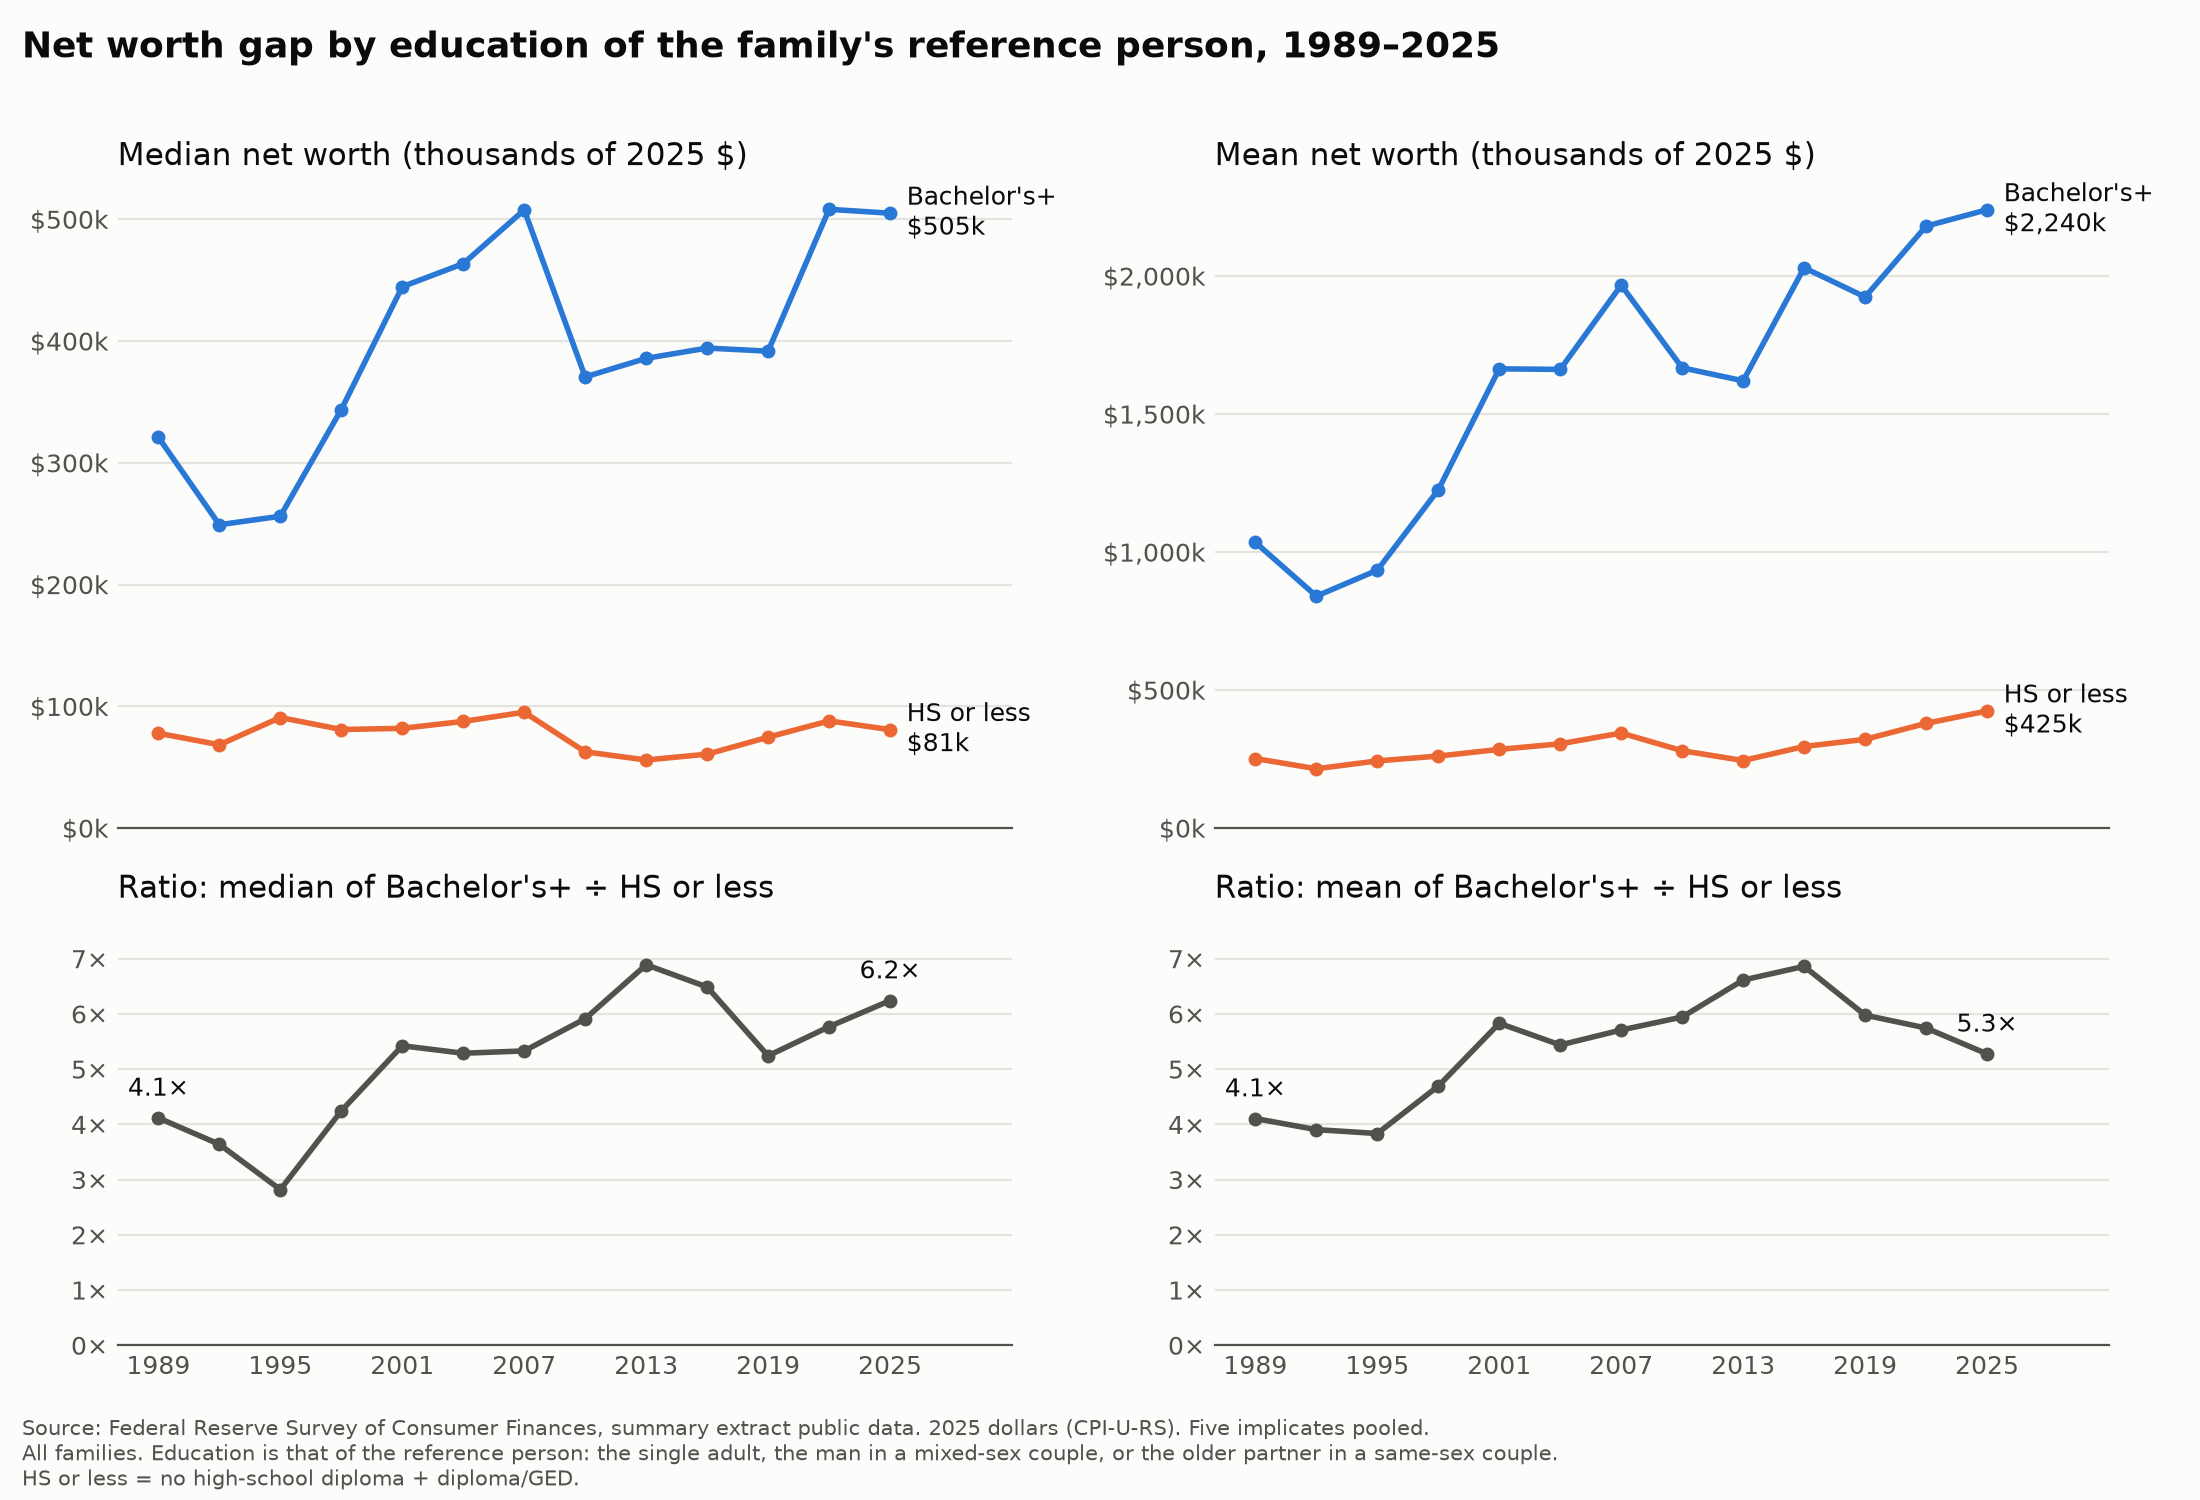
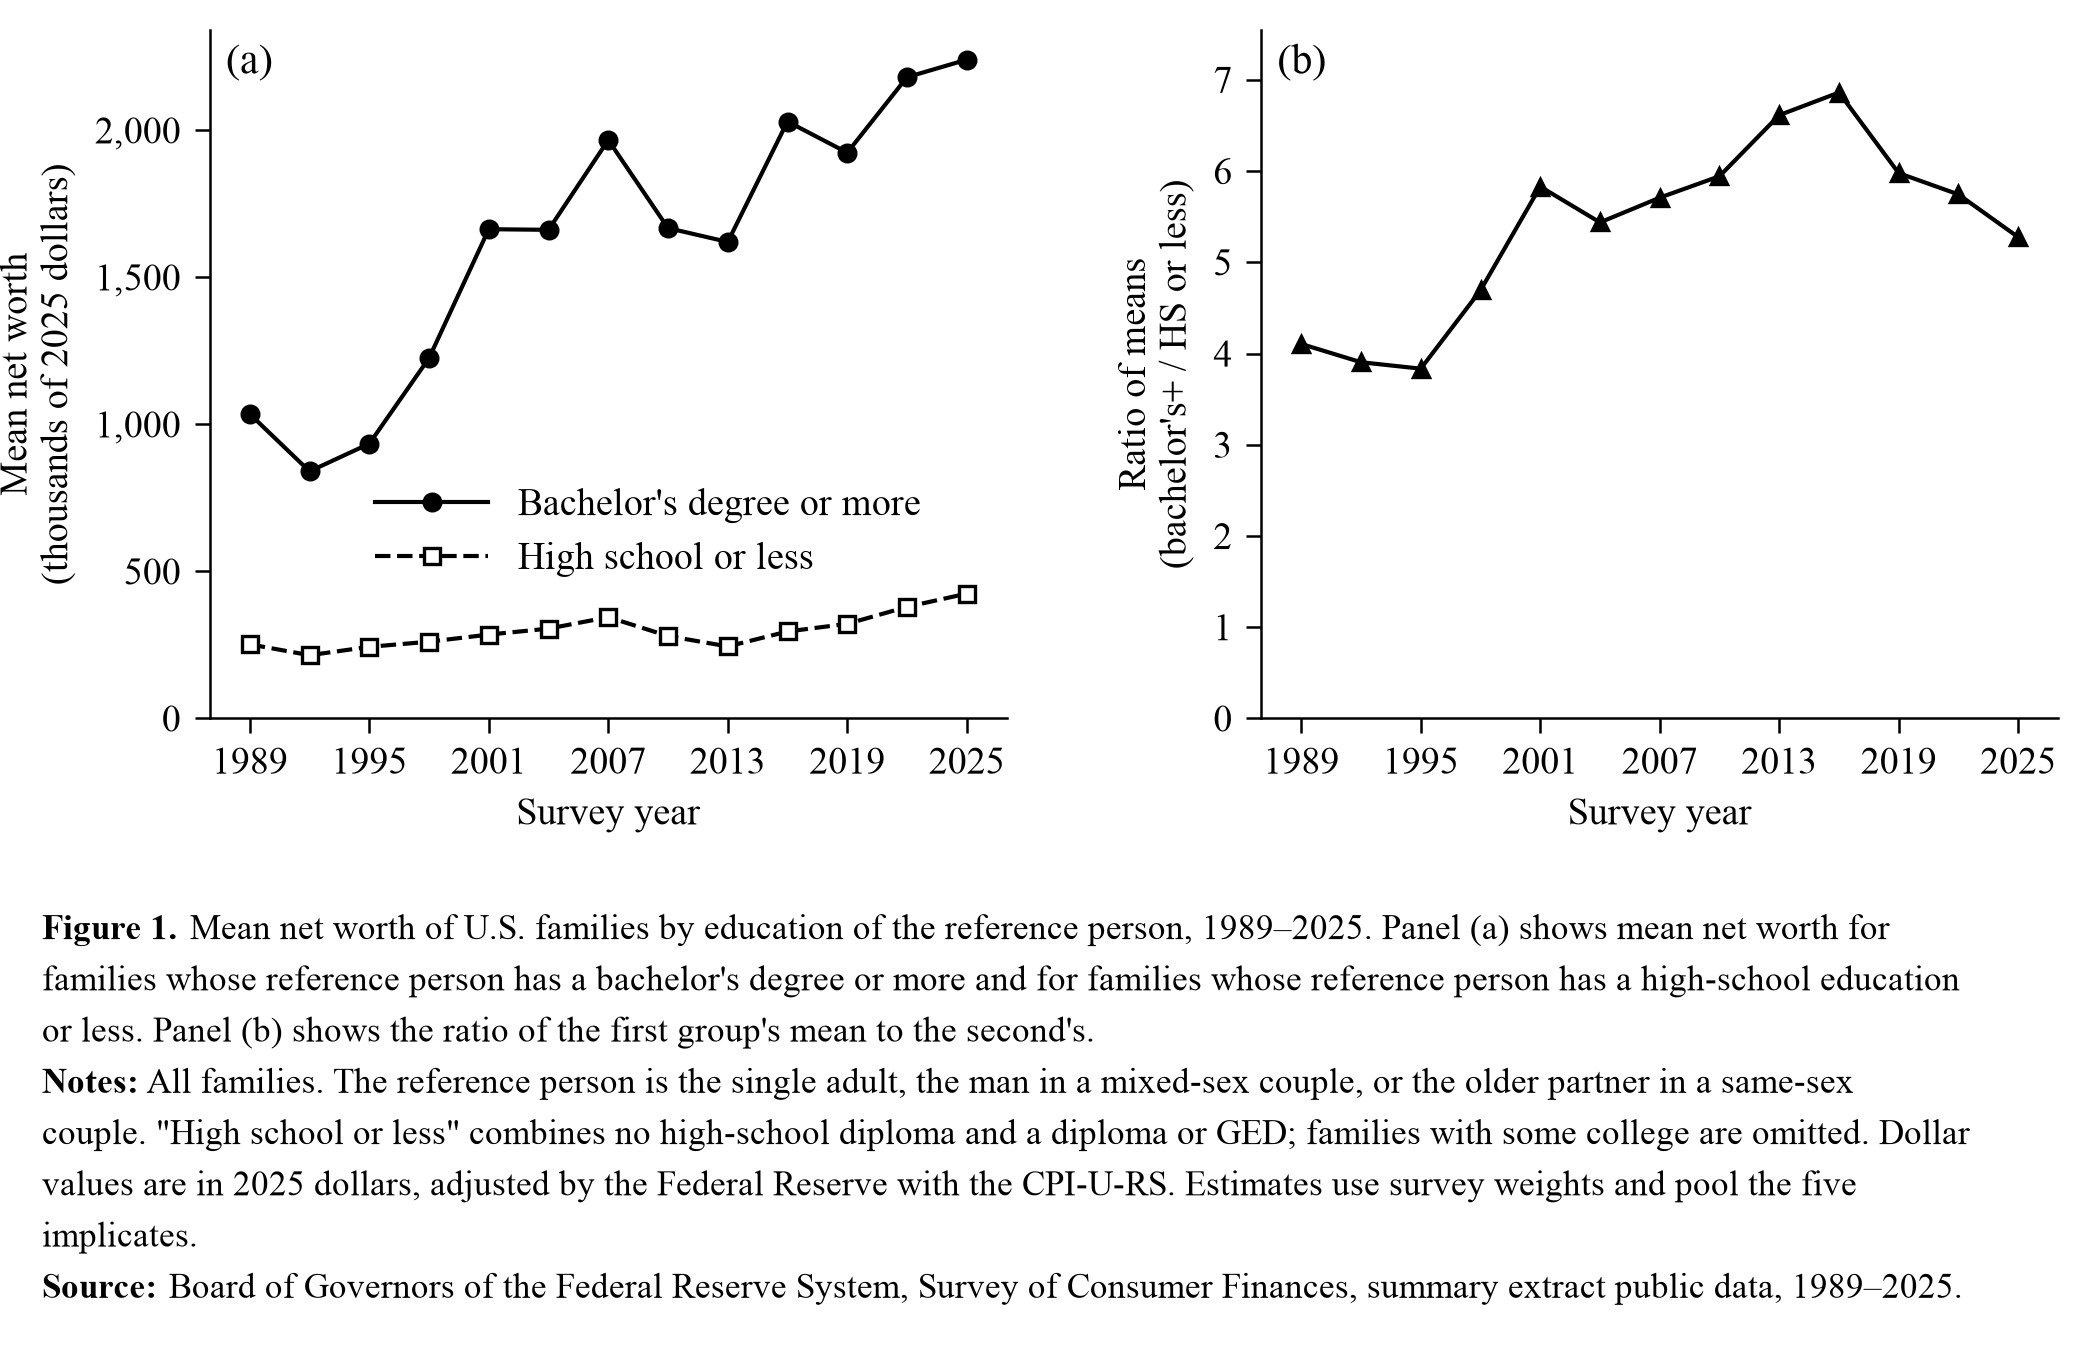
Restyle figure as black-and-white journal figure of means
Show only mean net worth: panel (a) plots the two education groups and
panel (b) the ratio of their means. Groups are distinguished by line
style and marker instead of color, axes are labeled, and the in-figure
title is replaced by a numbered caption with notes and source below.

diff --git a/plot.py b/plot.py
@@ -1,10 +1,14 @@
-"""Plot net worth of families headed by a college graduate vs. families headed by
-someone with a high-school education or less, 1989-2025 (SCF, 2025 dollars).
+"""Plot mean net worth of families headed by a college graduate vs. families headed
+by someone with a high-school education or less, 1989-2025 (SCF, 2025 dollars).
+
+Black-and-white journal style: groups are told apart by line style and marker,
+and the numbered caption, notes and source sit below the panels.
 
 Reads data/net_worth_by_education.csv (run get_data.py first).
 Writes figures/net_worth_by_education.png
 """
 
+import textwrap
 from pathlib import Path
 
 import matplotlib.pyplot as plt
@@ -15,20 +19,69 @@ DATA = Path("data/net_worth_by_education.csv")
 OUT = Path("figures/net_worth_by_education.png")
 
 COLLEGE, HS = "Bachelor's degree or more", "High school or less"
-COLORS = {COLLEGE: "#2a78d6", HS: "#eb6834"}
-INK, INK_2, GRID, SURFACE = "#0b0b0b", "#52514e", "#e4e3df", "#fcfcfb"
+SERIES = {
+    COLLEGE: dict(linestyle="-", marker="o", markerfacecolor="black"),
+    HS: dict(linestyle="--", marker="s", markerfacecolor="white"),
+}
+RATIO = dict(linestyle="-", marker="^", markerfacecolor="black")
+
+CAPTION = [
+    ("Figure 1.",
+     "Mean net worth of U.S. families by education of the reference person, 1989–2025. "
+     "Panel (a) shows mean net worth for families whose reference person has a "
+     "bachelor's degree or more and for families whose reference person has a "
+     "high-school education or less. Panel (b) shows the ratio of the first group's "
+     "mean to the second's."),
+    ("Notes:",
+     "All families. The reference person is the single adult, the man in a mixed-sex "
+     "couple, or the older partner in a same-sex couple. \"High school or less\" combines "
+     "no high-school diploma and a diploma or GED; families with some college are "
+     "omitted. Dollar values are in 2025 dollars, adjusted by the Federal Reserve with "
+     "the CPI-U-RS. Estimates use survey weights and pool the five implicates."),
+    ("Source:",
+     "Board of Governors of the Federal Reserve System, Survey of Consumer Finances, "
+     "summary extract public data, 1989–2025."),
+]
+
+WIDTH_IN = 7.0          # full text width of a journal page
+PLOT_HEIGHT_IN = 2.9
+CAPTION_PT = 8.5
+WRAP_CHARS = 132        # characters per caption line at CAPTION_PT on WIDTH_IN
+
+plt.rcParams.update({
+    "font.family": "serif",
+    "font.serif": ["Times New Roman", "Times", "DejaVu Serif"],
+    "font.size": 9,
+    "axes.edgecolor": "black",
+    "axes.linewidth": 0.6,
+    "xtick.direction": "out",
+    "ytick.direction": "out",
+    "xtick.major.width": 0.6,
+    "ytick.major.width": 0.6,
+    "lines.color": "black",
+    "lines.linewidth": 1.0,
+    "lines.markersize": 4,
+    "lines.markeredgewidth": 0.8,
+})
 
 
-def style(ax):
-    ax.set_facecolor(SURFACE)
-    ax.grid(axis="y", color=GRID, linewidth=0.8)
-    ax.set_axisbelow(True)
-    for side in ["top", "right", "left"]:
+def style(ax, letter):
+    for side in ["top", "right"]:
         ax.spines[side].set_visible(False)
-    ax.spines["bottom"].set_color(INK_2)
-    ax.tick_params(colors=INK_2, length=0, labelsize=9)
     ax.set_xticks([1989, 1995, 2001, 2007, 2013, 2019, 2025])
-    ax.set_xlim(1987, 2031)
+    ax.set_xlim(1987, 2027)
+    ax.set_ylim(0, None)
+    ax.text(0.02, 0.98, f"({letter})", transform=ax.transAxes, va="top", fontsize=10)
+
+
+def caption_lines():
+    """Wrap each caption paragraph; return (lead-in or None, text) per line."""
+    lines = []
+    for lead, body in CAPTION:
+        wrapped = textwrap.wrap(f"{lead} {body}", WRAP_CHARS)
+        lines.append((lead, wrapped[0][len(lead):]))
+        lines += [(None, line) for line in wrapped[1:]]
+    return lines
 
 
 def main():
@@ -36,57 +89,46 @@ def main():
     df = df[df["group"].isin([COLLEGE, HS])]
     wide = df.pivot(index="year", columns="group")
 
-    fig, axes = plt.subplots(2, 2, figsize=(11, 7.5), sharex=True,
-                             gridspec_kw={"height_ratios": [3, 2]})
-    fig.patch.set_facecolor(SURFACE)
+    lines = caption_lines()
+    line_in = CAPTION_PT * 1.45 / 72
+    caption_in = len(lines) * line_in + 0.25
+    total_in = PLOT_HEIGHT_IN + caption_in
+    fig = plt.figure(figsize=(WIDTH_IN, total_in))
+    levels, ratio_ax = fig.subplots(1, 2, gridspec_kw=dict(
+        left=0.1, right=0.98, top=1 - 0.1 / total_in, bottom=(caption_in + 0.5) / total_in,
+        wspace=0.32))
 
-    for col, stat in enumerate(["median", "mean"]):
-        levels, ratio_ax = axes[0, col], axes[1, col]
-        values = wide[f"{stat}_net_worth"] / 1000
+    values = wide["mean_net_worth"] / 1000
+    for group in [COLLEGE, HS]:
+        levels.plot(values.index, values[group], color="black", label=group,
+                    **SERIES[group])
+    levels.yaxis.set_major_formatter(FuncFormatter(lambda v, _: f"{v:,.0f}"))
+    levels.set_ylabel("Mean net worth\n(thousands of 2025 dollars)")
+    levels.set_xlabel("Survey year")
+    style(levels, "a")
+    # The band between the two series is empty in every year.
+    levels.legend(loc="center", bbox_to_anchor=(0.55, 0.27), frameon=False,
+                  handlelength=3)
 
-        for group in [COLLEGE, HS]:
-            s = values[group]
-            levels.plot(s.index, s.values, color=COLORS[group], linewidth=2,
-                        marker="o", markersize=4)
-            label = "Bachelor's+" if group == COLLEGE else "HS or less"
-            levels.annotate(f"{label}\n${s.iloc[-1]:,.0f}k", (s.index[-1], s.iloc[-1]),
-                            xytext=(6, 0), textcoords="offset points",
-                            va="center", fontsize=9, color=INK)
-        levels.set_ylim(0, None)
-        levels.yaxis.set_major_formatter(FuncFormatter(lambda v, _: f"${v:,.0f}k"))
-        levels.set_title(f"{stat.capitalize()} net worth (thousands of 2025 $)",
-                         loc="left", fontsize=11, color=INK)
+    r = values[COLLEGE] / values[HS]
+    ratio_ax.plot(r.index, r.values, color="black", **RATIO)
+    ratio_ax.yaxis.set_major_formatter(FuncFormatter(lambda v, _: f"{v:.0f}"))
+    ratio_ax.set_ylabel("Ratio of means\n(bachelor's+ / HS or less)")
+    ratio_ax.set_xlabel("Survey year")
+    style(ratio_ax, "b")
+    ratio_ax.set_ylim(0, r.max() * 1.1)
 
-        r = values[COLLEGE] / values[HS]
-        ratio_ax.plot(r.index, r.values, color=INK_2, linewidth=2, marker="o", markersize=4)
-        for year in [r.index[0], r.index[-1]]:
-            ratio_ax.annotate(f"{r[year]:.1f}×", (year, r[year]), xytext=(0, 8),
-                              textcoords="offset points", ha="center",
-                              fontsize=9, color=INK)
-        ratio_ax.set_ylim(0, None)
-        ratio_ax.yaxis.set_major_formatter(FuncFormatter(lambda v, _: f"{v:.0f}×"))
-        ratio_ax.set_title(f"Ratio: {stat} of Bachelor's+ ÷ HS or less",
-                           loc="left", fontsize=11, color=INK)
+    renderer = fig.canvas.get_renderer()
+    for i, (lead, text) in enumerate(lines):
+        y = (caption_in - 0.1 - (i + 0.8) * line_in) / total_in
+        x = 0.02
+        if lead:
+            bold = fig.text(x, y, lead, fontsize=CAPTION_PT, fontweight="bold")
+            x += bold.get_window_extent(renderer).width / fig.bbox.width
+        fig.text(x, y, text, fontsize=CAPTION_PT)
 
-    for ax in axes.flat:
-        style(ax)
-    # Same scale on both ratio panels so median and mean gaps compare directly.
-    top = max(ax.get_ylim()[1] for ax in axes[1]) * 1.1
-    for ax in axes[1]:
-        ax.set_ylim(0, top)
-
-    fig.suptitle("Net worth gap by education of the family's reference person, 1989–2025",
-                 x=0.01, ha="left", fontsize=13, color=INK, fontweight="bold")
-    fig.text(0.01, 0.005,
-             "Source: Federal Reserve Survey of Consumer Finances, summary extract public data. "
-             "2025 dollars (CPI-U-RS). Five implicates pooled.\n"
-             "All families. Education is that of the reference person: the single adult, the man "
-             "in a mixed-sex couple, or the older partner in a same-sex couple.\n"
-             "HS or less = no high-school diploma + diploma/GED.",
-             fontsize=7.5, color=INK_2, va="bottom")
-    fig.tight_layout(rect=(0, 0.06, 1, 0.97))
     OUT.parent.mkdir(exist_ok=True)
-    fig.savefig(OUT, dpi=200, facecolor=SURFACE)
+    fig.savefig(OUT, dpi=300, facecolor="white")
     print(f"wrote {OUT}")
 
 
